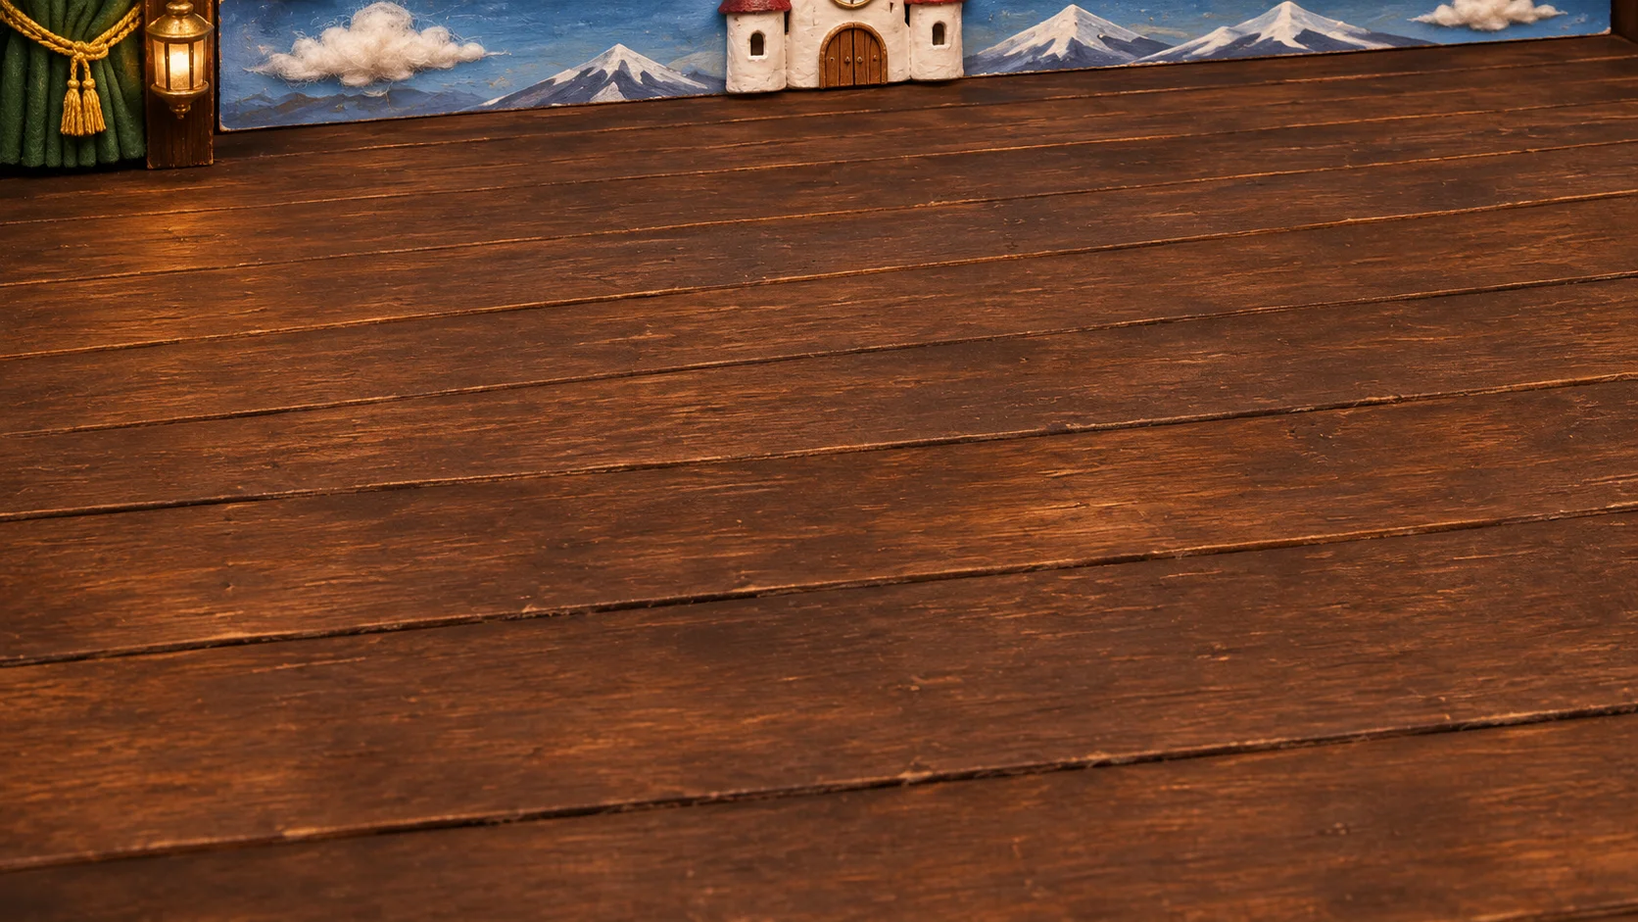
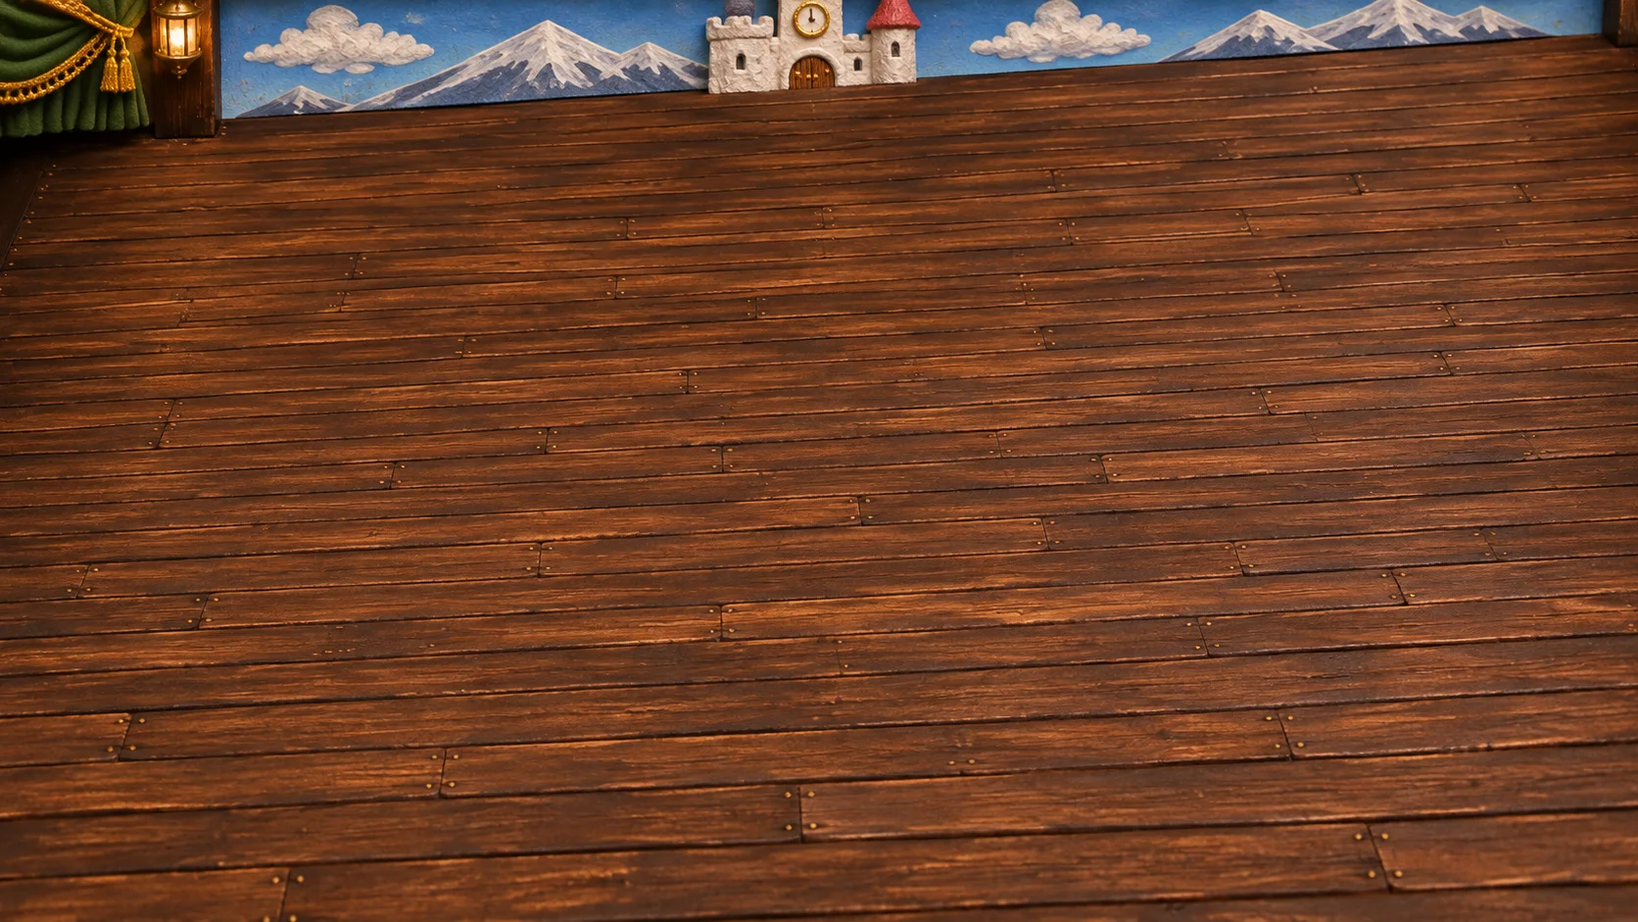
feat(battle-bg): BG011 の床板を細く（TRM-02 の板張りの実測に揃える）・継ぎ目・釘頭・細かい木目を指定して再生成（take11）、床板の継ぎ目線の間接検査、釘頭を物と数えない金判定、ノウハウ・レビュー観点・テスト。暫定採用を差し替え (Refs #191)

diff --git a/tests/test_battle_bg_build.py b/tests/test_battle_bg_build.py
@@ -14,6 +14,26 @@ import battle_bg_build as B  # noqa: E402
 from PIL import Image, ImageDraw  # noqa: E402
 
 
+import contextlib as _cl
+
+
+@_cl.contextmanager
+def without_plank_check():
+    """床板の継ぎ目線の検査（BG011）を外す。単色の合成画像は継ぎ目が0本で、別の検査の試験が落ちるため。"""
+    orig = B.load
+
+    def load(bg):
+        r, L = orig(bg)
+        L = copy.deepcopy(L)
+        L.pop("床板", None)
+        return r, L
+    B.load = load
+    try:
+        yield
+    finally:
+        B.load = orig
+
+
 class Build(unittest.TestCase):
     def setUp(self):
         _, self.L = B.load("BG011")
@@ -67,7 +87,8 @@ class Build(unittest.TestCase):
             p = Path(t) / "x.png"
             im.save(p)
             a = B.argparse.Namespace(bg_id="BG011", image=str(p), out=t, zoomed=False)
-            self.assertEqual(B.cmd_check(a), 0)
+            with without_plank_check():
+                self.assertEqual(B.cmd_check(a), 0)
 
 
 
@@ -332,8 +353,8 @@ class ObjectInFrames(unittest.TestCase):
         hl = np.zeros((4, 4, 3), dtype=int)
         hl[:] = (209, 122, 63)  # 木の橙色のハイライト（物ではない）
         self.assertFalse(B.object_mask(hl).any())
-        gold = np.zeros((4, 4, 3), dtype=int)
-        gold[:] = (222, 172, 44)  # 金の房（物）
+        gold = np.zeros((12, 12, 3), dtype=int)
+        gold[:] = (222, 172, 44)  # 金の房（物。5x5 以上の塊）
         self.assertTrue(B.object_mask(gold).all())
         self.assertFalse(m[:, 50:60].any())
 
@@ -417,7 +438,7 @@ class Survivors(unittest.TestCase):
                 p = Path(t) / "x.png"
                 im.save(p)
                 a = B.argparse.Namespace(bg_id="BG011", image=str(p), out=t, zoomed=True)
-                with contextlib.redirect_stdout(io.StringIO()):
+                with contextlib.redirect_stdout(io.StringIO()), without_plank_check():
                     rc = B.cmd_check(a)
                 self.assertEqual(rc, expect, band)
 
@@ -560,8 +581,8 @@ class RealColours(unittest.TestCase):
 
     def test_real_lantern_brass_is_gold(self):
         import numpy as np
-        self.assertTrue(B.gold_mask(np.array([[(207, 143, 74)]], dtype=int)).all())  # TRM-02 のランタンの真鍮の中央値
-        self.assertFalse(B.gold_mask(np.array([[(209, 122, 63)]], dtype=int)).any())  # 木のハイライト（g/r≈0.58）
+        self.assertTrue(B.gold_mask(np.full((12, 12, 3), (207, 143, 74), dtype=int)).all())  # TRM-02 のランタンの真鍮の中央値（5x5 以上の塊）
+        self.assertFalse(B.gold_mask(np.full((12, 12, 3), (209, 122, 63), dtype=int)).any())  # 木のハイライト（g/r≈0.58）
 
     def test_trm02_castle_roof_coverage_is_at_least_half(self):
         px = self.trm02()[200:290, 760:915]  # 城の屋根を含む範囲
@@ -574,7 +595,7 @@ class RealColours(unittest.TestCase):
         px = self.trm02()[205:275, 603:630]
         r, b = px[..., 0], px[..., 2]
         warm = (r > 170) & (r - b > 80)
-        self.assertGreater(B.gold_mask(px)[warm].mean(), 0.4)
+        self.assertGreater(B.gold_mask(px)[warm].mean(), 0.2)  # 釘の頭を除くため5x5の塊だけ数え、約28%
 
     def test_synthetic_floor_with_highlights_has_few_false_positives(self):
         import numpy as np
@@ -873,6 +894,62 @@ class FlatRoad(unittest.TestCase):
             return f
         self.assertEqual(self.run_check(shade(10))[0], 0)
         self.assertEqual(self.run_check(shade(20))[0], 1)
+
+
+
+
+class PlankSeams(unittest.TestCase):
+    """床板の幅（巨大な1枚板に見えないか）の間接検査: 継ぎ目線（明るさの縦方向の谷）の本数。"""
+
+    def setUp(self):
+        _, self.L = B.load("BG011")
+        self.pl = self.L["床板"]
+
+    def gray(self, spacing):
+        import numpy as np
+        a = np.full((941, 1672), 90.0)
+        for y in range(260, 900, spacing):
+            a[y:y + 2, :] = 40.0  # 板の継ぎ目の暗い線
+        return a
+
+    def count(self, spacing):
+        pl = self.pl
+        return len(B.plank_seams(self.gray(spacing), 650, 900, pl["y0"], pl["y1"], pl["k"], pl["gap"], pl["win"]))
+
+    def test_documented_values(self):
+        self.assertEqual((self.pl["min_seams"], self.pl["strips"], self.pl["y0"], self.pl["y1"]), (29, [[650, 900], [1200, 1450]], 260, 900))
+
+    def test_narrow_planks_have_many_seams_and_wide_planks_few(self):
+        self.assertGreaterEqual(self.count(16), 29)  # 間隔16px（TRM-02 の比に揃えた幅）
+        self.assertLess(self.count(30), 29)          # 間隔30px（take10 の巨大な板）
+
+    def test_check_flags_wide_planks_and_passes_narrow_ones(self):
+        import io, contextlib, json
+        for spacing, expect in ((30, 1), (16, 0)):
+            im = Image.new("RGB", (1672, 941), (90, 62, 40))
+            d = ImageDraw.Draw(im)
+            for y in range(260, 900, spacing):
+                d.rectangle([0, y, 1672, y + 1], fill=(40, 26, 16))
+            with tempfile.TemporaryDirectory() as t:
+                p = Path(t) / "x.png"
+                im.save(p)
+                a = B.argparse.Namespace(bg_id="BG011", image=str(p), out=t, zoomed=True)
+                with contextlib.redirect_stdout(io.StringIO()):
+                    B.cmd_check(a)
+                rep = json.loads((Path(t) / "report.json").read_text(encoding="utf-8"))
+            has = any("床板の継ぎ目線" in q for q in rep["problems"])
+            self.assertEqual(has, bool(expect), spacing)
+
+    def test_prompt_asks_for_small_planks_with_seams_and_nails(self):
+        text = B.build_prompt(B.corrected_layout(self.L))
+        for w in ("細い板", "約16px", "隙間線", "釘の頭", "ずらす", "巨大な1枚板に見えず"):
+            self.assertIn(w, text)
+
+    def test_nail_heads_are_not_stage_set_objects(self):
+        import numpy as np
+        px = np.full((60, 60, 3), (110, 66, 38), dtype=int)
+        px[20:24, 20:24] = (200, 160, 40)  # 釘の頭（4x4 の金色の点）
+        self.assertFalse(B.object_mask(px).any())
 
 
 if __name__ == "__main__":

diff --git a/.claude/skills/sit-battle-background/tools/battle_bg_build.py b/.claude/skills/sit-battle-background/tools/battle_bg_build.py
@@ -261,9 +261,20 @@ def red_roof_mask(px):
 
 
 def gold_mask(px):
-    """金（ランタンの真鍮・房）。TRM-02 のランタンの中央値 (207,143,74)（g/r≈0.69）に合わせ、g/r>0.62 かつ b<110。木のハイライト g/r≈0.58 と淡い桃色 (b≥140) は含めない。実測: TRM-02 のランタンの暖色の約53%を拾い、take10 の床の誤検出は0.16%。"""
+    """金（ランタンの真鍮・房。床板の釘の頭のような小さな金の点は除く）。TRM-02 のランタンの中央値 (207,143,74)（g/r≈0.69）に合わせ、g/r>0.62 かつ b<110。木のハイライト g/r≈0.58 と淡い桃色 (b≥140) は含めない。実測: TRM-02 のランタンの暖色の約53%を拾い、take10 の床の誤検出は0.16%。"""
+    import numpy as np
     r, g, b = px[..., 0], px[..., 1], px[..., 2]
-    return (r > 190) & (g * 100 > r * 62) & (b < 110)
+    m = (r > 190) & (g * 100 > r * 62) & (b < 110)
+    # 床板の釘の頭（小さな金の点）は物にしない: 5x5 の範囲がほぼ全部金色（23/25以上）の塊だけを金とする
+    sat = np.pad(m.astype("int32").cumsum(0).cumsum(1), ((1, 0), (1, 0)))
+    box = sat[5:, 5:] - sat[:-5, 5:] - sat[5:, :-5] + sat[:-5, :-5]
+    core = np.zeros(m.shape, dtype=bool)
+    core[2:2 + box.shape[0], 2:2 + box.shape[1]] = box >= 23
+    grown = np.zeros(m.shape, dtype=bool)
+    for dy in range(-2, 3):
+        for dx in range(-2, 3):
+            grown |= np.roll(np.roll(core, dy, 0), dx, 1)
+    return m & grown
 
 
 def object_mask(px, ground="wood"):
@@ -297,6 +308,23 @@ def floor_mask(px, ground="wood"):
     if ground == "road":
         return ~object_mask(px) & (r < 150) & (np.abs(r - b) < 60)
     return ~object_mask(px) & (r > b + 15) & (r >= g) & (r >= 35)
+
+
+def plank_seams(gray, x0, x1, y0, y1, k=2.5, gap=8, win=41):
+    """床板の継ぎ目線の本数を、縦帯 x0〜x1・y0〜y1 の明るさの縦方向の谷から数える（win px の移動平均を引いた残差が -k 未満の局所最小、間隔 gap px 以上）。木目の筋も数えるので、板の継ぎ目と厳密には区別できない間接検査。"""
+    import numpy as np
+    a = np.asarray(gray, dtype=float)[y0:y1, x0:x1]
+    prof = a.mean(axis=1)
+    base = np.convolve(np.pad(prof, win // 2, mode="edge"), np.ones(win) / win, mode="valid")
+    hp = prof - base
+    idx = []
+    for i in range(1, len(hp) - 1):
+        if hp[i] < -k and hp[i] <= hp[i - 1] and hp[i] < hp[i + 1]:
+            if not idx or i - idx[-1] >= gap:
+                idx.append(i)
+            elif hp[i] < hp[idx[-1]]:
+                idx[-1] = i
+    return idx
 
 
 def black_mask(px):
@@ -366,6 +394,13 @@ def cmd_check(a):
                 continue  # 見切れてよい上端の舞台セットはログ帯にかかってよい
             if overlap(bx, sr["box"]):
                 report["problems"].append(f"城の屋根 {bx} が安全矩形 {sr['id']} に重なる")
+    pl = L.get("床板")  # 床板の幅（巨大な1枚板に見えないか）の間接検査: 板の継ぎ目線の本数
+    if pl:
+        gray = np.asarray(im.convert("L"))
+        counts = [len(plank_seams(gray, x0, x1, pl["y0"], pl["y1"], pl["k"], pl["gap"], pl["win"])) for x0, x1 in pl["strips"]]
+        report["plank_seams"] = counts
+        if min(counts) < pl["min_seams"]:
+            report["problems"].append(f"床板の継ぎ目線が {min(counts)} 本（{pl['min_seams']} 本以上が要る。板の幅が大きく、巨大な1枚板に見える）")
     if a.zoomed:
         report["floor_fraction"] = {}
         integ = Integral(floor_mask(px, L.get("地面", "wood")))

diff --git a/docs/ledger/views/content.md b/docs/ledger/views/content.md
@@ -2124,7 +2124,7 @@ uv run python3 scripts/content_ledger_views.py build で更新する。
 | A-1349 | TRM-03 | 背景(基準) | assets/images/fields/reference/teramachi-grounds-exterior-trm03-adopted.webp | 採用 | 2026-11-11 | r3 のテイク3を局所編集した edit2 を採用（kako-jun「take3」「外観はとりあえずこれでいい」。決定 TRM-03.adopt-take3-edit2、Issue #191 https://github.com/kako-jun/sit-by-me/issues/191#issuecomment-6783972653）。docs/production/oblique-mocks/TRM-03/take3-edit2.png（1672×941、リポ外・git 無視、sha256 7ba9e34faae01a6c9156475d5df55682cbe5a0c3e8e5349b52bc260004d147bb）を WebP 品質85（リサイズなし）にして正本パスへ保存。manifest adoption に記録。 | f01e5ebee81ad1264b043a584a0d1a03e9827b1f8ad985668b58f2fc00b17f06 |  |
 | A-1350 | TRM-08 | 背景(基準) | assets/images/fields/reference/teramachi-road-well-canal-trm08-adopted.webp | 採用 | 2026-11-11 | e2 の take1 の消雪パイプの噴射の水だけを決定論のマスク編集で消した take1-edit1 を採用（kako-jun「融雪装置の上だけすこしアスファルトが明るい色という不自然さはあるが、気にならないレベルなのでまぁいい」。決定 TRM-08.adopt-take1-edit1、Issue #191 https://github.com/kako-jun/sit-by-me/issues/191#issuecomment-6787902612）。元の take1（docs/production/oblique-mocks/TRM-08/e2/take1.png、sha256 3878525ed66d703a0747cefd3a1f568758c1b58cddfd65e58229dd1fb6860356）に対し、マスク外は画素同一（差分 0）。1672×941 の PNG（docs/production/oblique-mocks/TRM-08/e2/take1-edit1.png、リポ外・git 無視、sha256 5f0f793e5292bc4d22f457fabef918b340197c6ac60ddb83e107039e53874823）を、マスク外の画素を変えないため可逆 WebP（リサイズなし）で正本パスへ保存。manifest adoption に記録。 | d35d2e688b9149f40d2d14ad1a9070c9a4a42b79d709a8b823da2cd59cee5c13 |  |
 | A-1351 | TRM-12 | 背景(基準) | assets/images/fields/reference/teramachi-danchi-room-trm12-adopted.webp | 採用 | 2026-11-11 | e2 の take4 を土台に局所編集した edit3 を採用（kako-jun「枕が大きすぎること以外はよい」「そのまくらでいい」。決定 TRM-12.adopt-take4-edit3、Issue #191 https://github.com/kako-jun/sit-by-me/issues/191#issuecomment-6787975184）。元の take4（docs/production/oblique-mocks/TRM-12/e2/take4.png、sha256 b6d69fc404bc894a5d3760b571befed0eecf6feb79da9c4ff6fbdd2b42b0c12d）に、玄関扉の色を take3 に合わせる・右上クローゼットの南向き面の扉の線を消す・枕を各布団の頭側のへり中央へ小さく置き直す（局所 imagegen）の3点を、不規則マスクの局所編集で行った 1672×941 の PNG（docs/production/oblique-mocks/TRM-12/e2/take4-edit3.png。リポ外・git 無視、sha256 bb0214f8522579446f9fbf44155db2ff882748e0dbe92a0e57172fa60512af02。マスク外は take4 と画素同一＝差分 0）を、マスク外の画素を変えないため可逆（lossless）WebP（リサイズなし）にして正本パスへ保存。manifest adoption に記録。枕の色味は2つとも白寄りの生成りに揃えた。 | ea155960e5545fcb1f8d080dbe83f7f3cf3d2dce08b9ce9b31edffed42c5c389 |  |
-| A-1352 | BG011 | battle-backgrounds | assets/images/battle-backgrounds/BG011.webp | 採用 | 2026-11-12 | 暫定採用（kako-jun の目視承認は未取得）。sit-battle-background スキルの build→1回生成→check の手順で作った take10（拡大なし1.0倍、台帳『配置』の描画オフセット補正あり）。check --zoomed で全枠（敵・味方4枠・窓3枠）の床画素99%以上・物画素0.5%以下（実測の最大は味方2枠の0.28%）。kako-jun の目視承認を得るまでは暫定で、不採用なら台帳の状態を戻して差し替える。Issue #191、PR #274。 | 49d4b0e8b04646a9df3fe61c1c929ca1c5f5dd245340ea618138a9430d850d09 |  |
+| A-1352 | BG011 | battle-backgrounds | assets/images/battle-backgrounds/BG011.webp | 採用 | 2026-11-12 | 暫定採用（kako-jun の目視承認は未取得）。sit-battle-background スキルの build→1回生成→check の手順で作った take11（拡大なし1.0倍、台帳『配置』の描画オフセット補正あり）。take10 は床板の幅が大きく巨大な1枚板に見えた（kako-jun「すこしフローリングの幅が大きすぎる」「巨大な板に見えてしまう」2026-11-12）ため、TRM-02 の板張りの実測（壇の板の間隔は壇の幅の約1.1%）に揃えて板を細く（中ほどで約16px）し、継ぎ目の隙間線・釘の頭・板ごとにずらした長さ方向の継ぎ目・細かい木目を指定して再生成した。check --zoomed で全枠（敵・味方4枠・窓3枠）の床画素99%以上・物画素0.5%以下（最大は味方1枠の0.04%）、床板の継ぎ目線は両帯32本（合格線29本以上。take10 は23〜26本で NG）。kako-jun の目視承認を得るまでは暫定で、不採用なら台帳の状態を戻して差し替える。Issue #191、PR #274。 | 7ea0aa75a68408658064feb9a8174bc9d83fce3d43c4bf17fae4fc0f915e043e |  |
 | A-1353 | BG012 | battle-backgrounds | assets/images/battle-backgrounds/BG012.webp | 採用 | 2026-11-12 | 採用（kako-jun 目視承認 2026-11-12「これでいい」。逐語 https://github.com/kako-jun/sit-by-me/issues/191#issuecomment-6815782548）。sit-battle-background スキルで、台帳『配置』（BG011 継承・地面=thin-snow）から build して take5 を生成し、zoom-search（1.0〜1.5倍の範囲で総当たり）で、枠の上端帯に石・縁石・綿の塊が入らず（上端帯の路面の黒80%以上）、かつ余裕の大きい候補（味方1枠88%・敵の枠91%）を選んだ 1.15倍・crop 70,52,1454,818 で拡大。平らで水平な路面に、均一な薄い白い粉雪の層（黒い路面が透ける）。kako-jun「雪がつもりすぎ」「戦闘画面の道路の左端がなんか曲線状にゆがんでるし雪でなく道路がぐねぐね凹凸があるようにみえている」（2026-11-12）を受け、轍・足跡のくぼみを描かず、左端は直線的な遠近。消雪パイプの穴・金属蓋は描かない（「融雪装置が大きすぎる」「雪道でいいのでは」）。check --zoomed（再実測）で全枠（敵・味方4枠・窓3枠）の床画素99%以上・物画素0.5%以下（最大は味方1枠の0.03%）、路面の黒90.9%・白1.0%（合格線は黒45%以上・白35%以下。決定備考の『約7割』は TRM-08 の道路の実測（黒67〜82%）に基づく目安で、ここの90.9%は take5 の実測）、上端帯の路面の黒は味方1枠88.4%・敵の枠90.6%（合格線80%以上）、左端の路面の低周波のむらは3.5（合格線6.5以下。うねって見えた take4 は9.2）。上端に土塀・戸室石の基礎・縁石・路肩の綿の雪は見切れて残るが、枠には入らない（目視でも確認）。寺町の特徴だけを合わせた景色（どのマップとも一致しない）。BG012 は計5回生成（take1=BG011 のオフセット継承、take2=穴あり、take3=厚い雪、take4=薄雪でうねって見えた、take5=平らな薄い粉雪。指示の1回を超えた）。旧画像は差し替えた。Issue #191、PR #274。BG011 はこの承認の対象外で暫定のまま。 | 6c0f0576b0c1434f3dee03b28c5327fb30cdb731d27f2f293f7b9c1ea1f33e9f |  |
 
 ### 素材移行 (712件)

diff --git a/.claude/skills/sit-battle-background/SKILL.md b/.claude/skills/sit-battle-background/SKILL.md
@@ -94,6 +94,7 @@ description: Sit by Me の戦闘背景を、対応フィールドMAPと既存戦
 - **カメラは少し斜め左**（角度の数値は未決 U-2912、発明しない）。**舞台は実マップの舞台（TRM-02）どおり**。
 - **色判定は実画像で校正**する（屋根・金は TRM-02 の実色。誤検出は床の絵で数える）。閾値が1枚の絵で調整した値なら、その旨を注記する。
 - **生成後は `check --zoomed` と `overlay.png` を必ず**。自動検査は屋根・床・物の画素だけで、重なりの最終判断は目視（適合表を作る）。
+- **床板の幅は TRM-02 の舞台の板張りに揃える・巨大な1枚板に見せない**（kako-jun 2026-11-12「すこしフローリングの幅が大きすぎる」「巨大な板に見えてしまう」）: 板を細く多く（TRM-02 の実測で板の間隔は壇の幅の約1.1% → 中ほどで約16px。奥ほど狭く手前ほど広い）、板の隙間線・釘の頭・板の長さ方向の継ぎ目（板ごとにずらす）・細かい木目を送信文に入れる。`check` が床板の継ぎ目線の本数（29本以上。幅の広い take10 は23〜26本）で間接検査し、最終は目視。床板の釘の頭（小さな金の点）は物と数えない。
 - 採用は暫定採用（kako-jun の目視承認は未取得）と正直に台帳へ記録する。
 - **道の戦闘背景（BG012 寺町の道路）は雪道で、消雪パイプの穴（融雪装置・金属蓋）は描かない**（kako-jun 2026-11-12「融雪装置が大きすぎる」「雪道でいいのでは」）。台帳『配置』は `継承: BG011`（安全矩形・床の四隅は BG011 を単一正本に継承）、`地面: thin-snow`（薄雪の路面。床判定は低彩度の黒・灰色・白＝黒い路面も雪も床、物は色のある面だけ）、`雪の量`（check の合格線: 枠内の黒い面45%以上・白い雪35%以下。TRM-08 の道路の実測は黒67〜82%・白1〜9%）、背景固有の `文面`（PR.battle.*-road）・`参照見本`（TRM-08 の縁石・土塀・瓦屋根・石の基礎・雪の地面の切り出し。穴のある路面は入れない。`ref --bg BG012`）・`描画オフセット`（背景ごとに実測。値は台帳『配置』が正本でここに書かない。BG011 の値を継承して生成すると奥の縁が大きく下に描かれた）を持つ。土塀・瓦屋根・雪囲いは上端で見切れ、`check --zoomed`＋overlay 目視（石・瓦・縁石は暗い灰色で路面の黒と色で区別できないため、枠の上端帯（上端から15%）の『路面の黒』の割合（80%以上。路面は91〜94%・石の入った帯は36〜58%の実測）で `check`・`zoom-search` が検査し、最終は目視）。新しい背景は、描画オフセットを実測してから生成する。 **路面は平ら。湾曲した轍・うねり・盛り上がりを描かない。雪は路面全体に均一な薄い粉雪の層**（kako-jun 2026-11-12「戦闘画面の道路の左端がなんか曲線状にゆがんでるし雪でなく道路がぐねぐね凹凸があるようにみえている」。轍・足跡のくぼみを描かせると左端に大きな弧の轍が出てうねって見えた）。`check --zoomed` が左端の低周波の明るさのむら（6.5以下。平らな take5 は3.5、うねった take4 は9.2）で間接検査し、最終は目視（左端が直線的か・平らか・雪の層に見えるか）。**雪を積もらせすぎない**（kako-jun 2026-11-12「雪がつもりすぎ」）: 路面は黒い湿ったアスファルトが約7割見え、厚い綿は路肩・縁石の脇・土塀の根元だけ。
 

diff --git a/.claude/skills/sit-artifact-redteam/SKILL.md b/.claude/skills/sit-artifact-redteam/SKILL.md
@@ -33,7 +33,8 @@ Find evidence that a proposed or generated artifact is wrong before it is adopte
 8. **道の戦闘背景は雪道**: 消雪パイプの穴・金属蓋（融雪装置）が描かれていないか（kako-jun「融雪装置が大きすぎる」「雪道でいいのでは」）。`check` と overlay で、路面に丸い金属の蓋・穴が無いか目視する。
 9. **雪を積もらせすぎない（BG012）**: 路面の黒い湿ったアスファルトが約7割見え、厚い綿の盛り上がりが路肩・縁石の脇・土塀の根元だけか（kako-jun「雪がつもりすぎ」）。`check --zoomed` の `road_black_fraction`（45%以上）・`road_white_fraction`（35%以下）と overlay の目視で数える。
 10. **路面は平ら（BG012）**: 湾曲した轍・左端の弧・うねり・盛り上がりが無いか、雪が路面全体に均一な薄い層に見えるか（kako-jun「道路の左端がなんか曲線状にゆがんでる…ぐねぐね凹凸がある」）。`check --zoomed` の `left_lowfreq`（6.5以下）と overlay の目視。
-11. **採用の記録**: 暫定採用なら台帳に「kako-jun の目視承認は未取得」と書かれているか。
+11. **床が巨大な1枚板に見えないか（BG011）**: 板の枚数・継ぎ目の隙間線・釘の頭・板の長さ方向の継ぎ目・木目の細かさ・1枚あたりの大きさが、味方・敵の枠や小さな舞台の縮尺に対して『小さな板が並ぶ舞台』になっているか。板幅が TRM-02 の舞台の板張りの実測に揃っているか。`check` の `plank_seams`（29本以上）と overlay の目視。
+12. **採用の記録**: 暫定採用なら台帳に「kako-jun の目視承認は未取得」と書かれているか。
 
 ## Inputs and canonical sources
 
